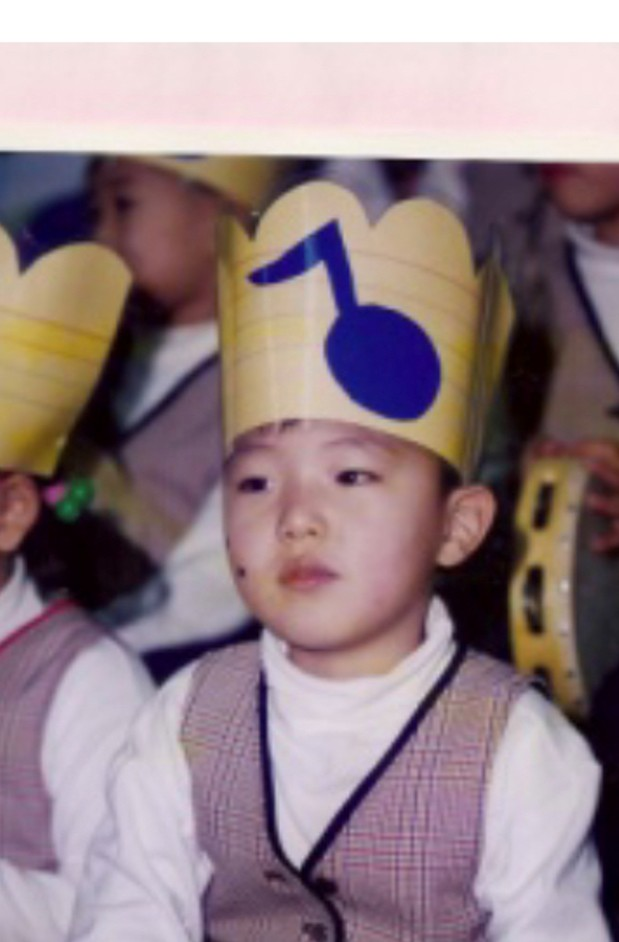
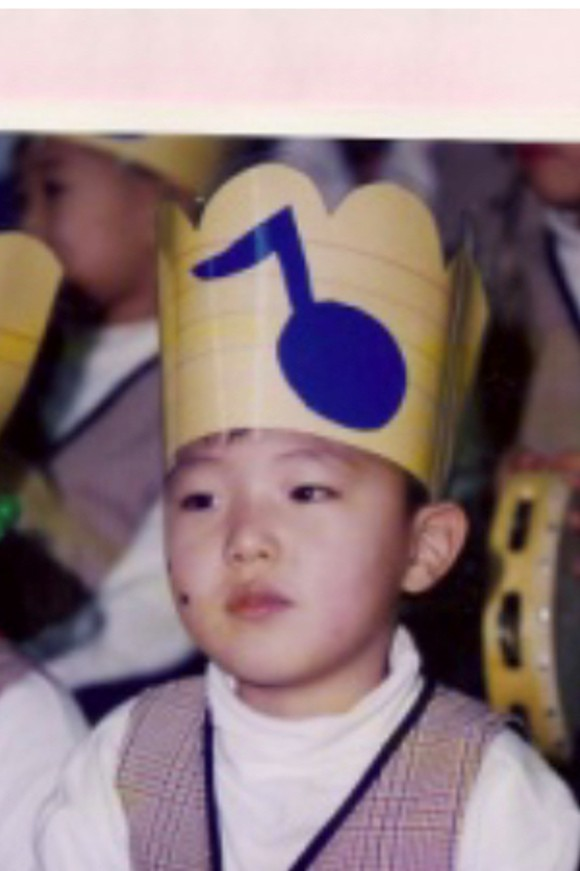
20260602 일정 안내 펄스 효과 및 bride 사진 변경

diff --git a/styles.css b/styles.css
@@ -132,11 +132,12 @@ section {
     color: rgb(254, 252, 214);
     z-index: 10;
     font-family: -apple-system, BlinkMacSystemFont, 'SF Pro Display', 'SF Pro Text', 'Inter', 'Helvetica Neue', Arial, sans-serif;
-    background: rgba(0, 0, 0, 0.045);
-    -webkit-backdrop-filter: blur(1px);
-    backdrop-filter: blur(1px);
+    background: rgba(0, 0, 0, 0.065);
+    -webkit-backdrop-filter: blur(2px);
+    backdrop-filter: blur(2px);
     border-radius: 24px;
     padding: 18px 32px;
+    animation: datetime-pulse 2s infinite;
 }
 
 .lockscreen-wedding-label {
@@ -172,10 +173,10 @@ section {
     transform: translateX(-50%);
     width: 90%;
     max-width: 350px;
-    background: rgba(255, 255, 255, 0.835);
+    background: rgba(255, 255, 255, 0.635);
     /* -webkit- 접두사: Safari 및 구형 iOS/Android 브라우저 필수 */
-    -webkit-backdrop-filter: blur(12px);
-    backdrop-filter: blur(12px);
+    -webkit-backdrop-filter: blur(8px);
+    backdrop-filter: blur(8px);
     border-radius: 16px;
     padding: 12px;
     display: -webkit-box;
@@ -277,6 +278,15 @@ section {
     }
     50% {
         opacity: 0.5;
+    }
+}
+
+@keyframes datetime-pulse {
+    0%, 100% {
+        opacity: 1;
+    }
+    50% {
+        opacity: 0.78;
     }
 }
 
